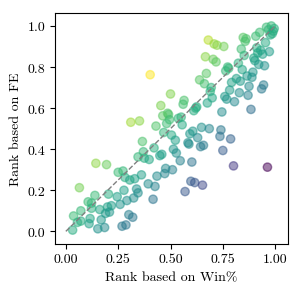
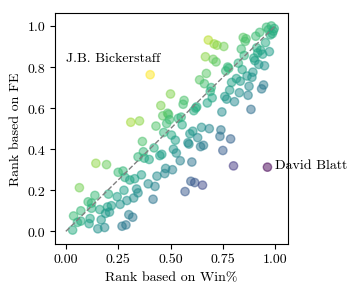
fix scatter plot (coach FE) add labels

Changed region(s): [[0.0, 0.0307, 0.9867, 0.9215], [0.299, 0.8294, 0.8073, 0.9829], [0.3887, 0.2457, 0.4485, 0.2765]]

diff --git a/content/projects/coachfixedeffects.md b/content/projects/coachfixedeffects.md
@@ -13,9 +13,9 @@ weight: 1
 
 ### Introduction
 
-A few years ago at the Sloan Sports Analytic Conference, one of the moderators raised an important question, for which no panelist gave a clear answer: "We have all these metrics that capture player perfromance, isn't it time to have metrics for coaches?" It is quite evident, even to the casual observer, that some coaches are able to elevate team performance more than others. But the analytics community has yet to come up with a metric that systematically studies that. So, I've set out to fill this gap. 
+A few years ago at the Sloan Sports Analytic Conference, one of the moderators raised a question for which there was no clear answer: "We have all these metrics that capture player perfromance, isn't it time to have metrics for coaches?" It is quite evident, even to the casual observer, that some coaches are able to elevate team performance more than others. But the analytics community has yet to come up with a metric that systematically studies that. So, I've set out to fill this gap. 
 
-The project started as I was completing my Master's in Applied Economics, during which I happened to read a number of academic papers on sports economics. I came across [a paper](https://journals.sagepub.com/doi/abs/10.1177/1527002516674760)  on the impact of managers in the German Bundesliga, and decided to replicate the analysis on NBA coaches. I soon realized that the NBA was an ideal environment for two reasons:
+The project started as I was completing my graduate studies in economics, during which I happened to read a number of academic papers on sports economics. I came across [a paper](https://journals.sagepub.com/doi/abs/10.1177/1527002516674760)  on the impact of managers in the German Bundesliga, and decided to replicate the analysis on NBA coaches. I soon realized that the NBA was an ideal environment for two reasons:
 
 1. **We are able to capture player quality pretty well.** Thanks to advanced performance metrics such as Win Shares, VORP, BPM.. etc,  we can control for roster quality more accurately than in soccer. 
 
